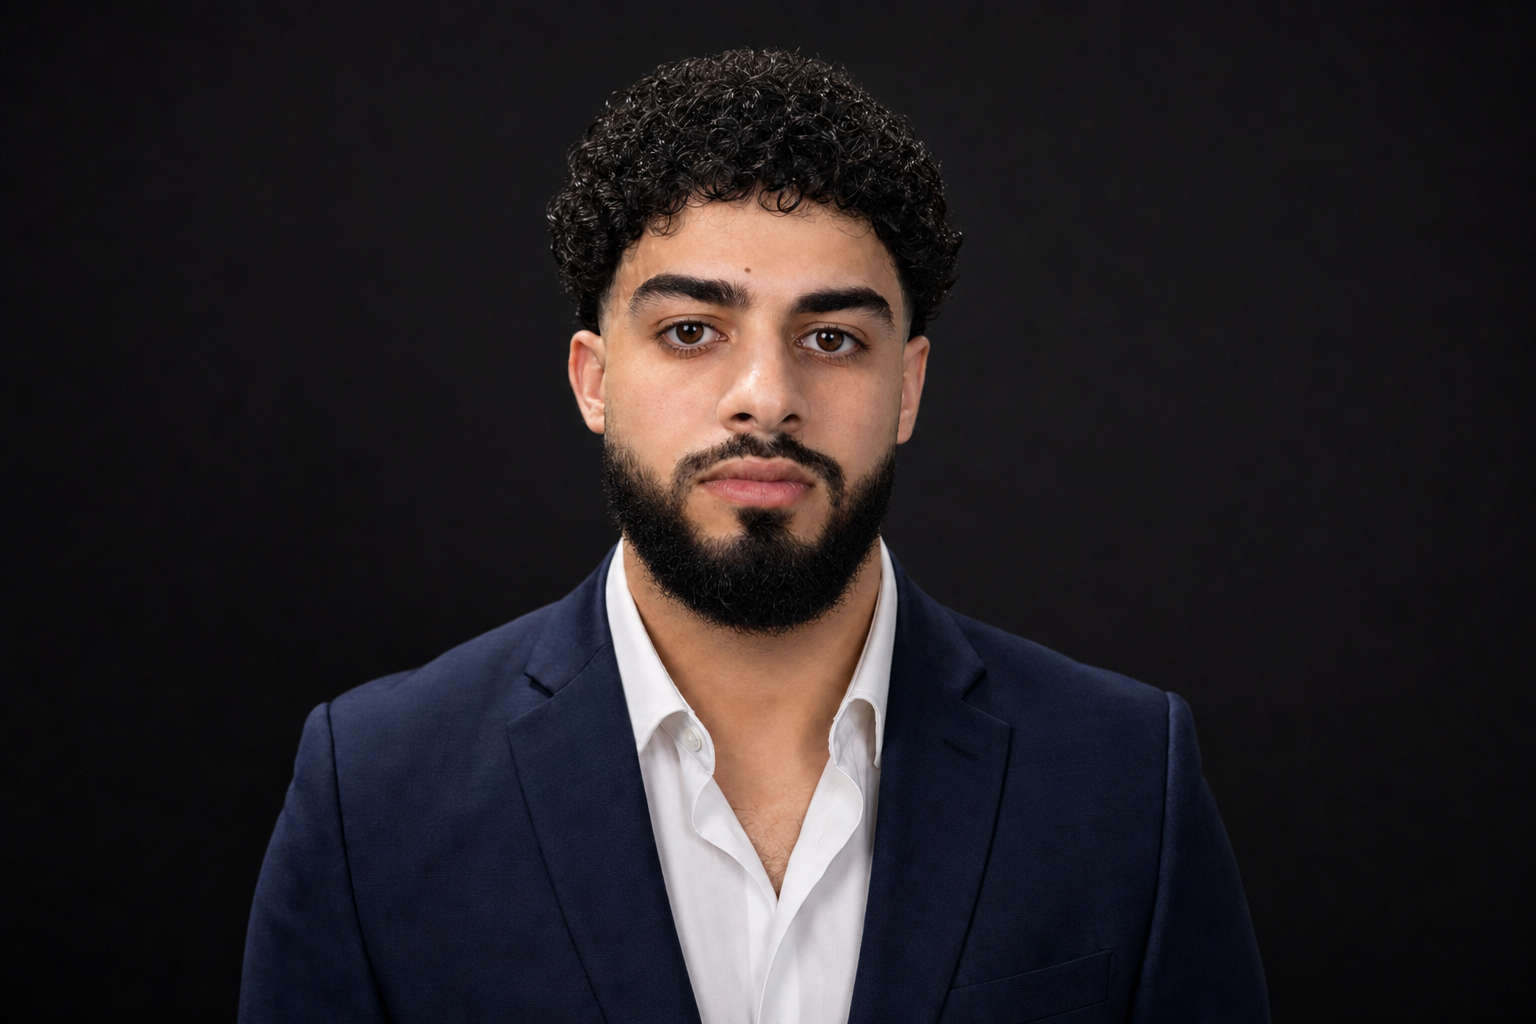
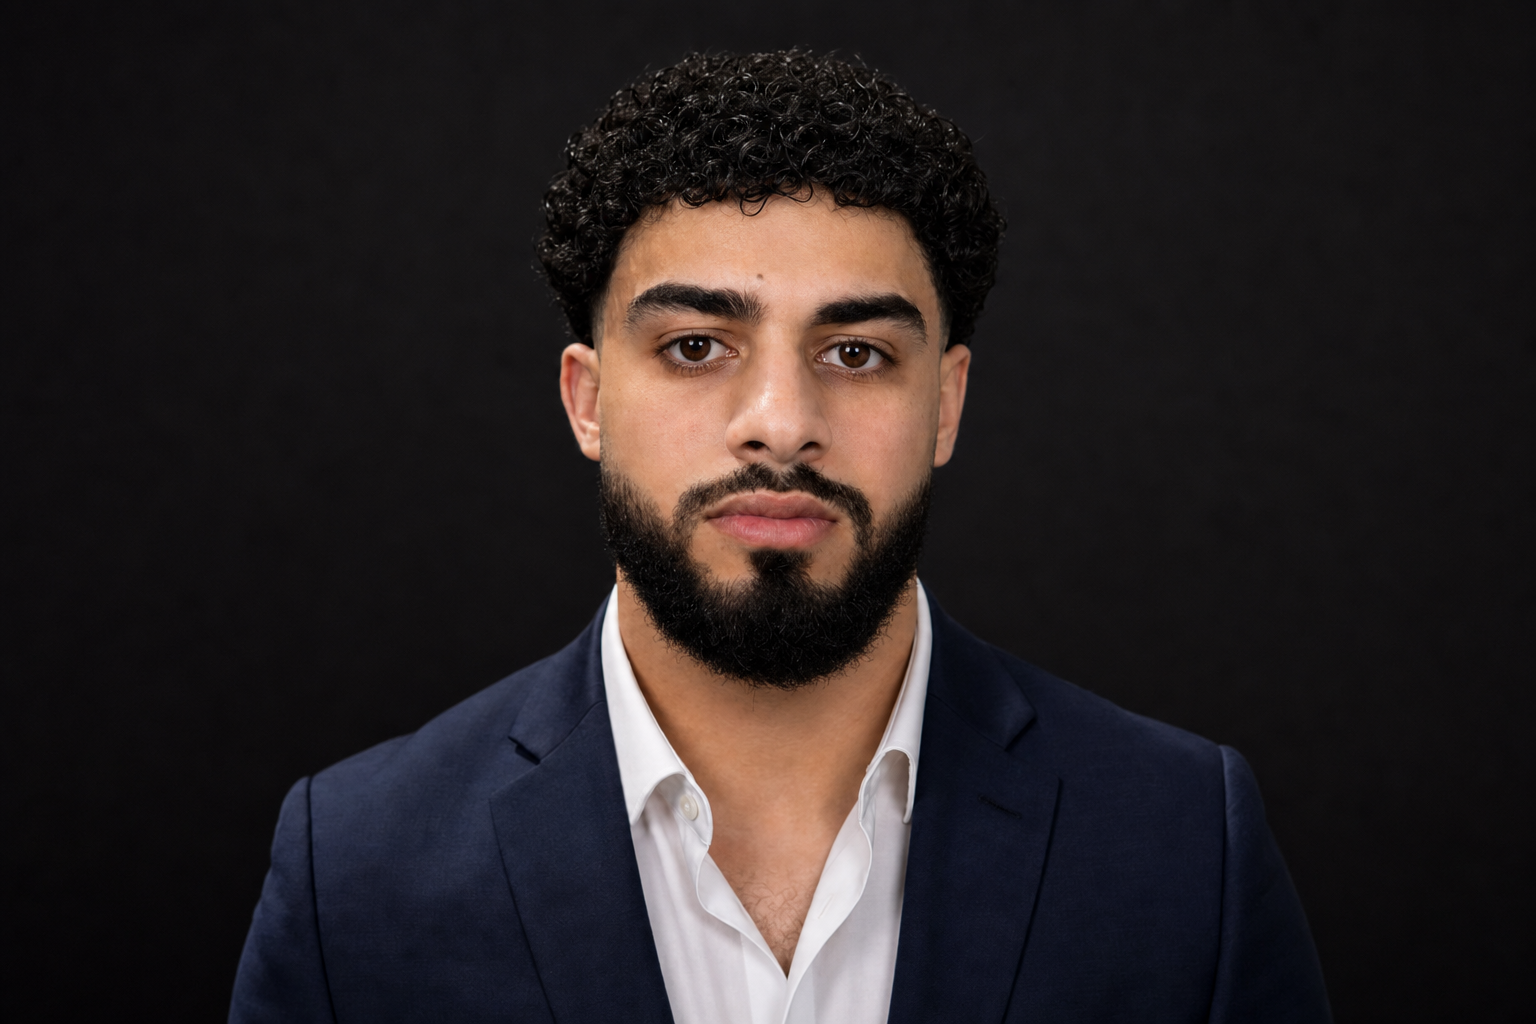
Prepare portfolio for Vercel deployment

Changed region(s): [[0.1562, 0.0312, 0.8125, 1.0], [0.125, 0.9688, 0.1562, 1.0]]

diff --git a/src/data/projects.js b/src/data/projects.js
@@ -9,7 +9,7 @@ export const projects = [
       'A full-stack sports operations platform for Raja CA with AI-powered coaching evaluation, president governance, transfer scouting, and real-time squad management.',
     image: '/images/projects/raja-club-ath.jpg',
     technologies: ['React', 'Django', 'DRF', 'PostgreSQL', 'JWT', 'Recharts', 'AI'],
-    demoUrl: 'http://localhost:3000/welcome',
+    demoUrl: `https://github.com/${GITHUB_USER}/raja-club-athletic`,
     githubUrl: `https://github.com/${GITHUB_USER}/raja-club-athletic`,
     problem:
       'Raja Club Athletic needed a unified digital command center to manage first-team operations, evaluate coaching staff with AI, and streamline president-level decisions across scouting and finances.',

diff --git a/src/data/navigation.js b/src/data/navigation.js
@@ -8,6 +8,6 @@ export const navLinks = [
 
 export const socialLinks = [
   { label: 'GitHub', href: 'https://github.com/devilwolf1', icon: 'github' },
-  { label: 'LinkedIn', href: 'https://linkedin.com', icon: 'linkedin' },
-  { label: 'Twitter', href: 'https://twitter.com', icon: 'twitter' },
+  { label: 'LinkedIn', href: 'https://github.com/devilwolf1', icon: 'linkedin' },
+  { label: 'Twitter', href: 'https://github.com/devilwolf1', icon: 'twitter' },
 ]

diff --git a/src/data/profile.js b/src/data/profile.js
@@ -5,7 +5,7 @@ export const profile = {
   headline: 'I Build Modern Websites That Help Businesses Grow',
   image: '/images/profile.png',
   fallbackImage: '/images/profile-placeholder.svg',
-  email: 'ayoub@example.com',
-  whatsapp: '1234567890',
+  email: 'ayoubelkhoms300@gmail.com',
+  whatsapp: '212000000000',
   location: 'Available Worldwide',
 }

diff --git a/README.md b/README.md
@@ -20,7 +20,19 @@ Open http://localhost:5173/
 
 ```bash
 npm run build
+npm run preview
 ```
+
+## Deploy (Vercel)
+
+1. Push this repo to GitHub: `devilwolf1/ayoub-portfolio`
+2. Import the repo at [vercel.com/new](https://vercel.com/new)
+3. Framework preset: **Vite**
+4. Build command: `npm run build`
+5. Output directory: `dist`
+6. Deploy
+
+`vercel.json` is included for client-side routing.
 
 ## Author
 
